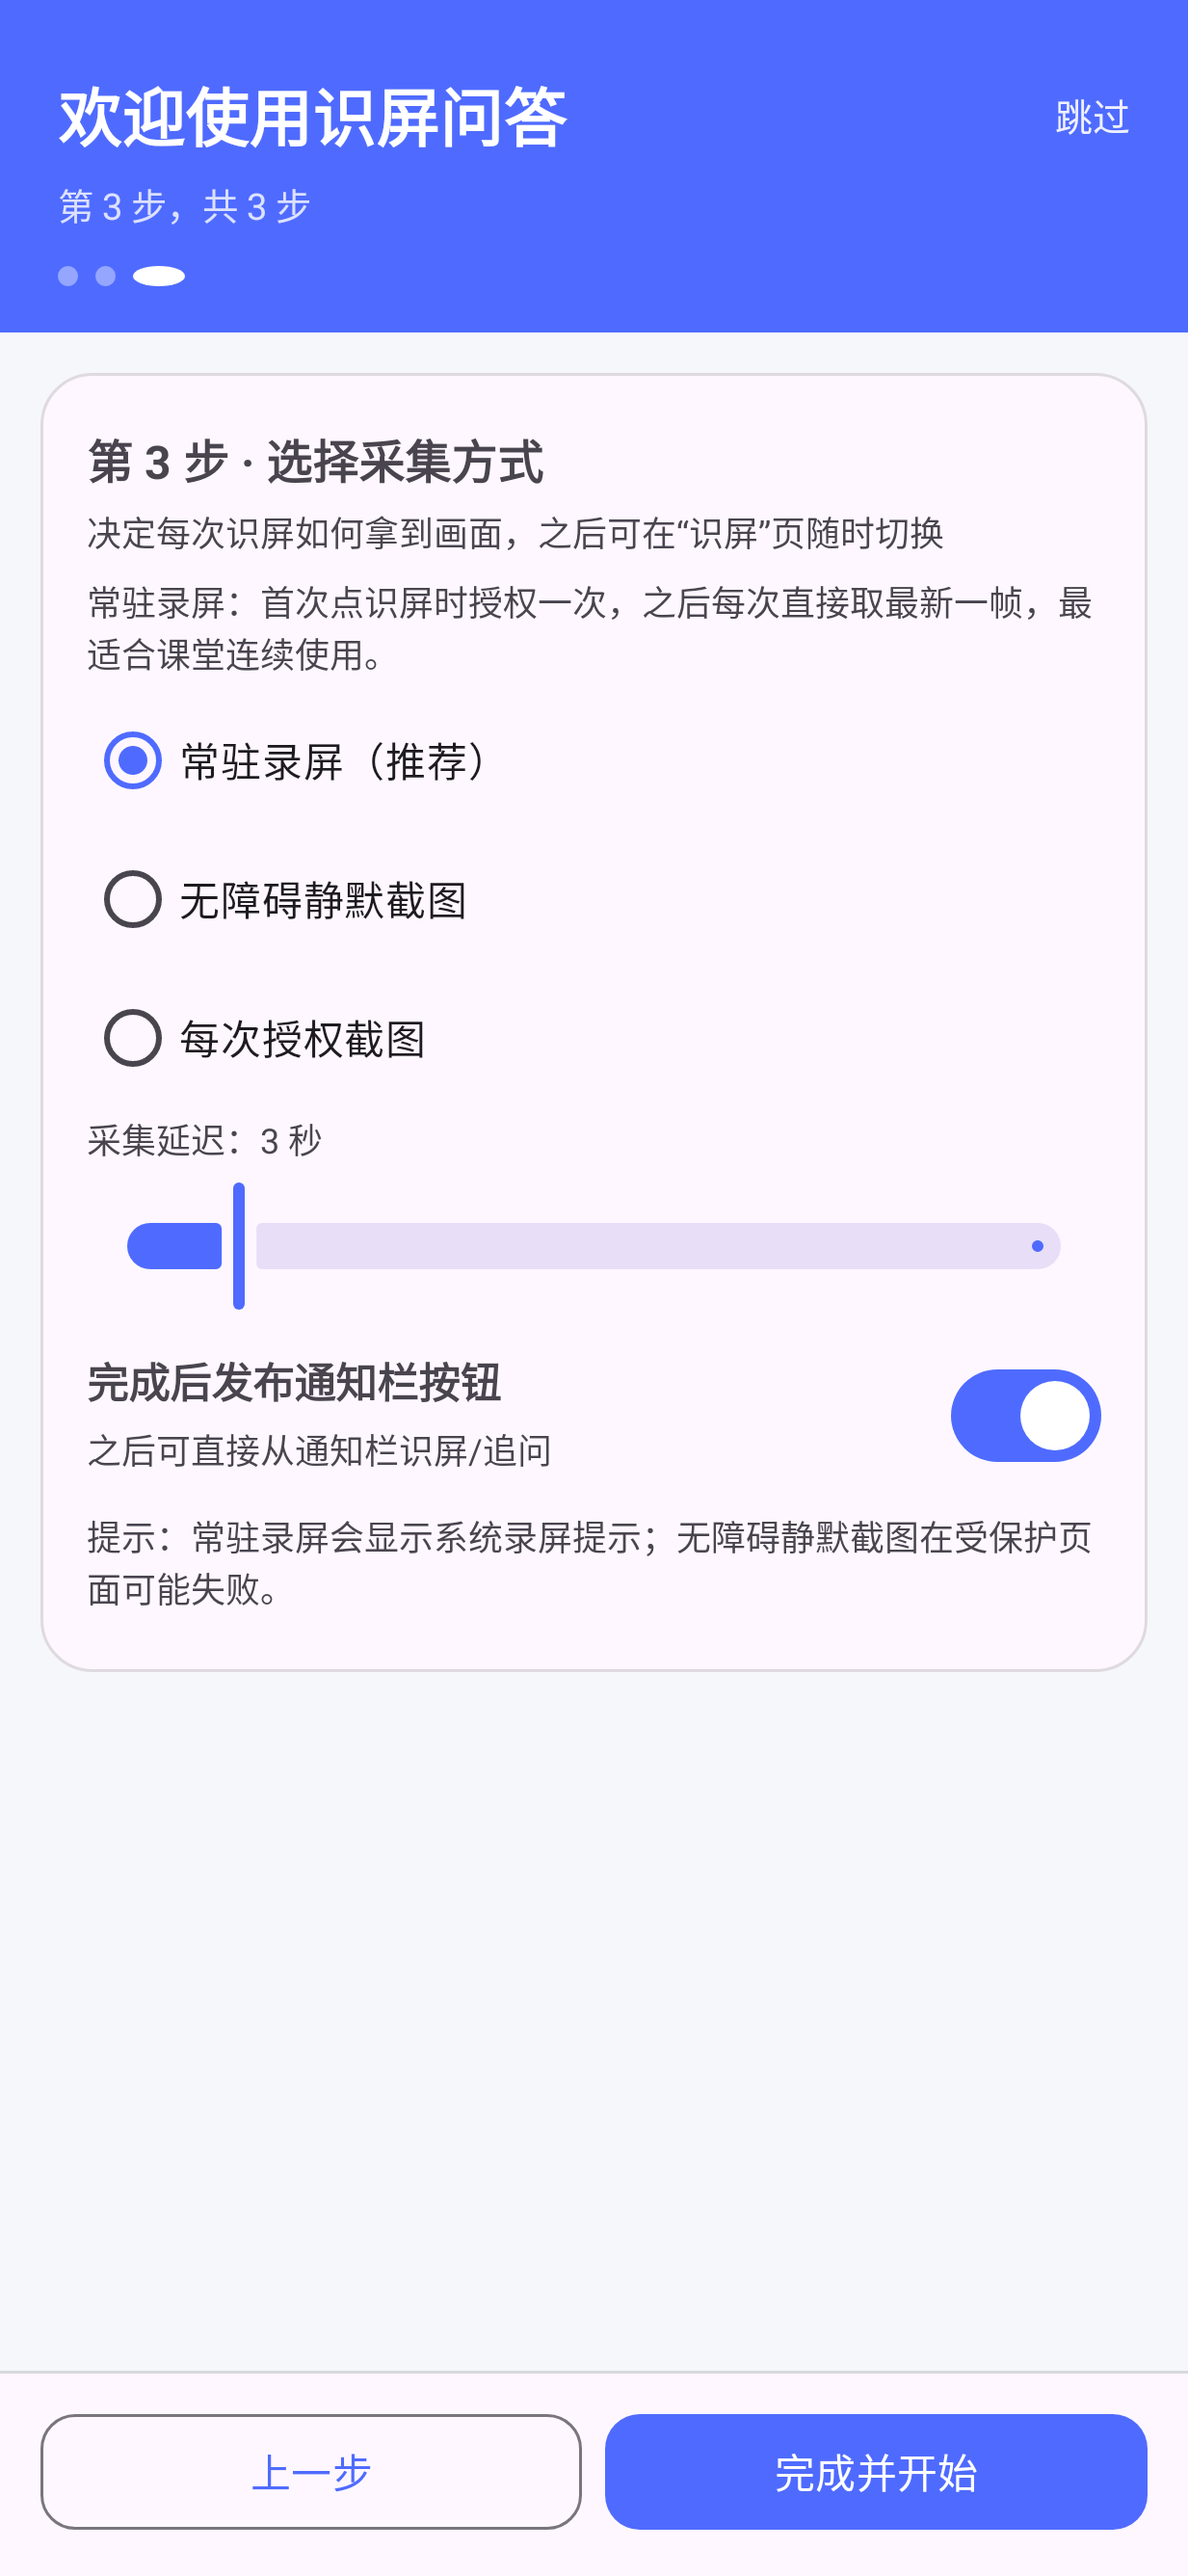
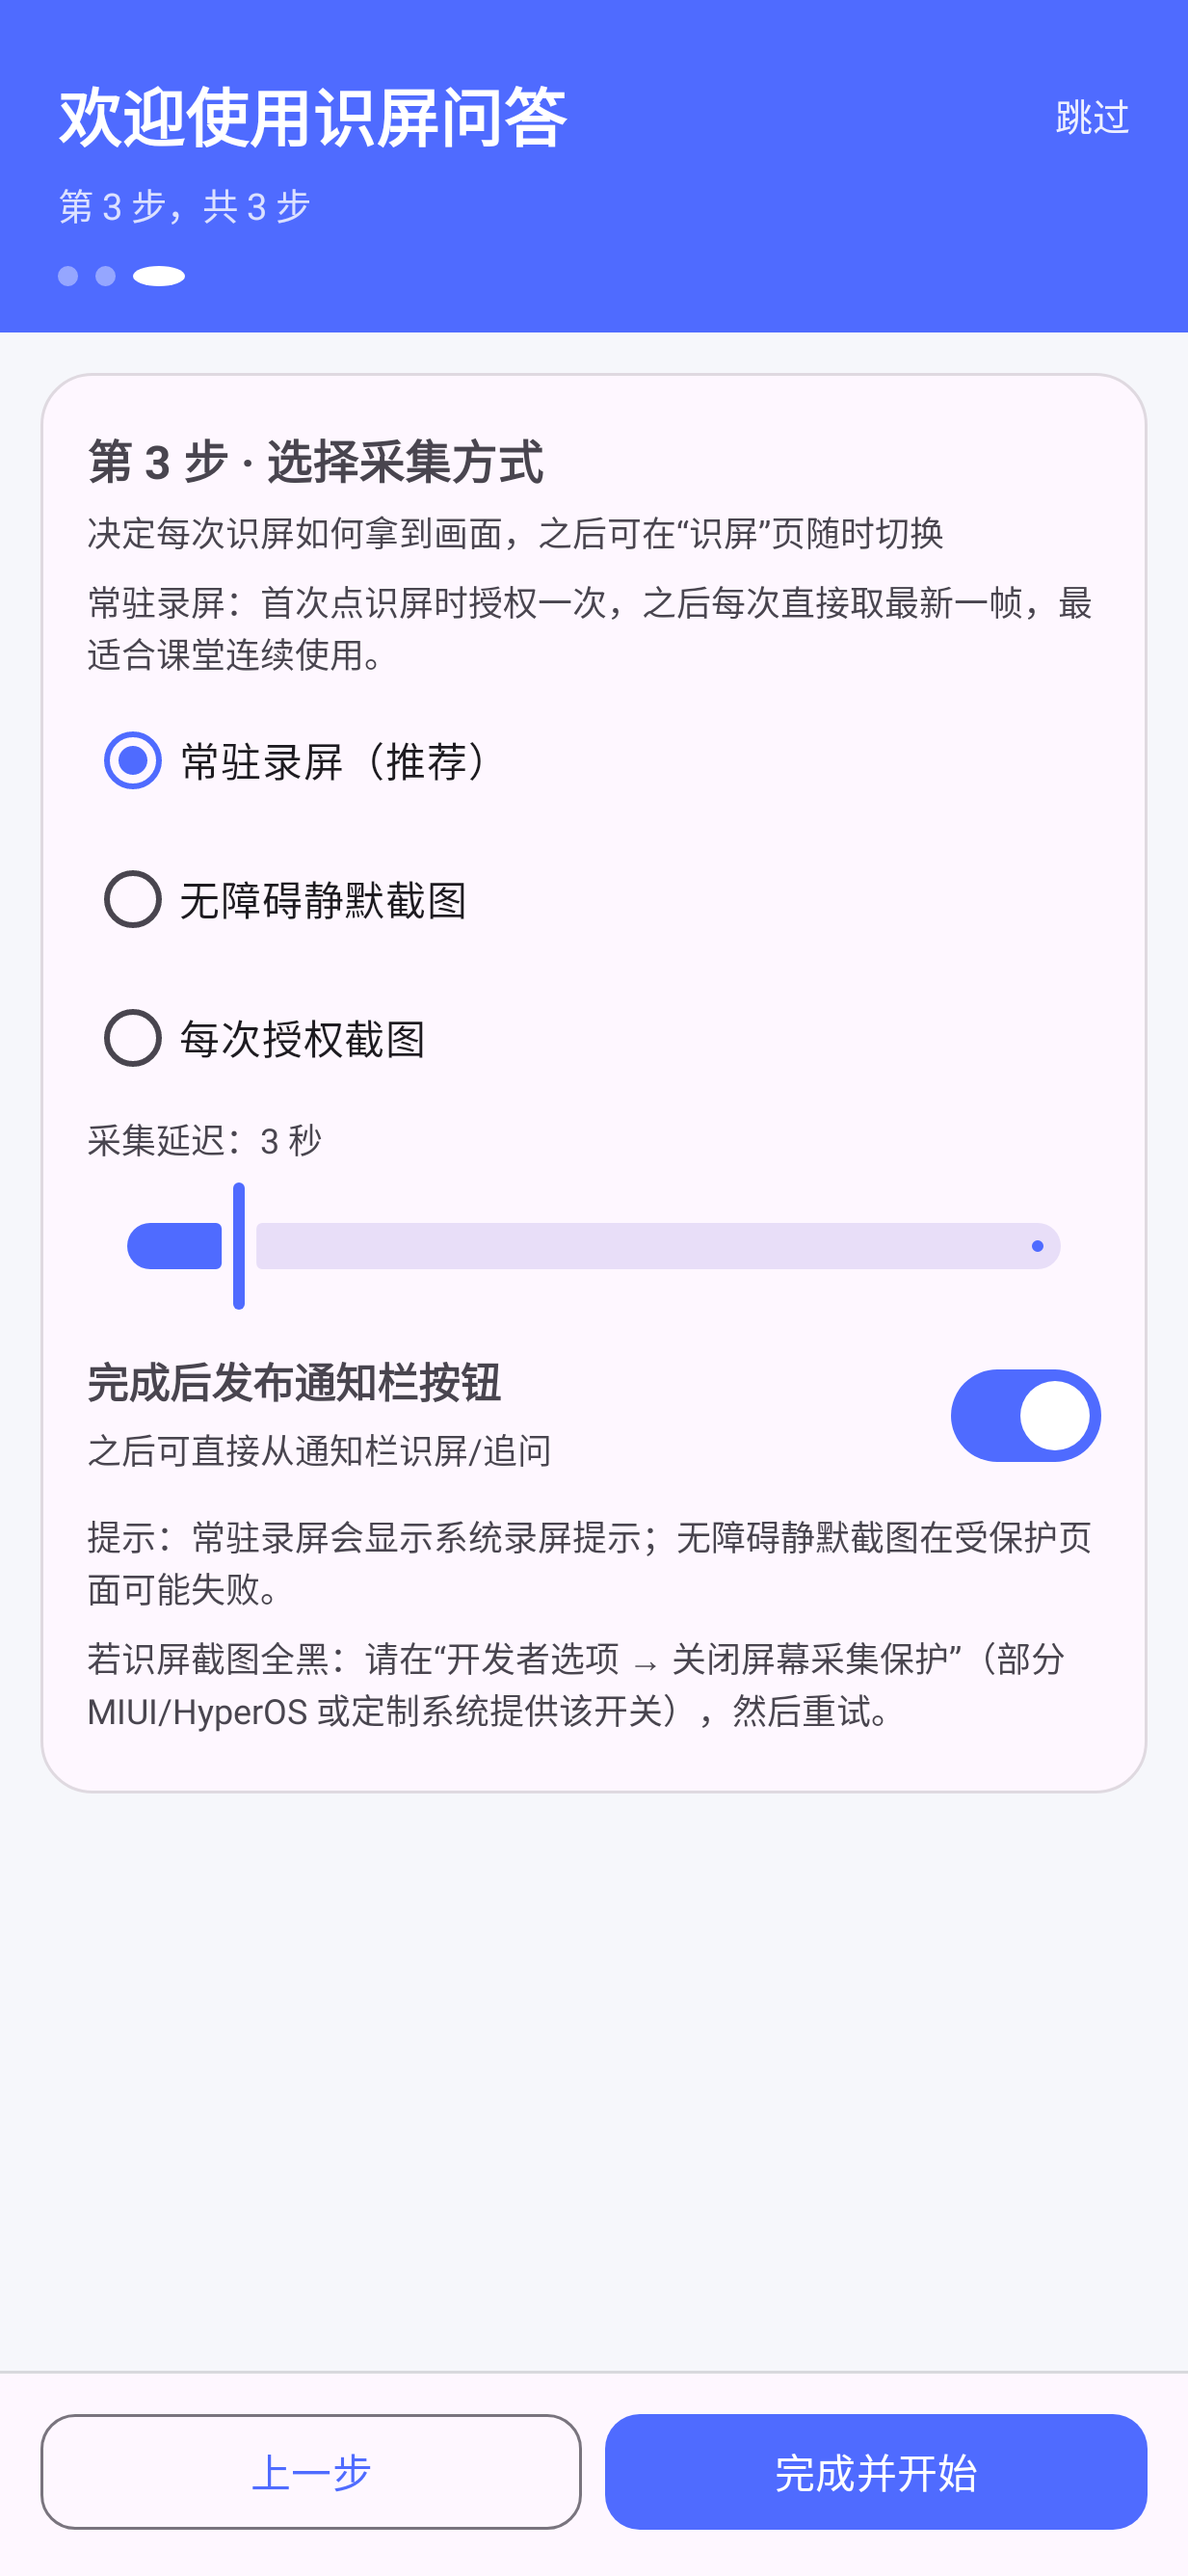
fix: preserve each input value after recreation; remind about screen capture protection (1.0.2)

Changed region(s): [[0.0616, 0.621, 0.5547, 0.6831], [0.5547, 0.621, 0.8013, 0.6831], [0.8321, 0.621, 0.8938, 0.6521]]

diff --git a/app/src/main/java/com/screenask/app/Prefs.kt b/app/src/main/java/com/screenask/app/Prefs.kt
@@ -91,15 +91,39 @@ object Prefs {
 
     fun load(context: Context): AppConfig {
         val prefs = context.getSharedPreferences(FILE, Context.MODE_PRIVATE)
+
+        // Defensive repair for values that may have been written by the old
+        // duplicate-input-id bug (many fields restored as the string "zh").
+        fun saneUrl(value: String?, fallback: String): String {
+            val trimmed = value?.trim().orEmpty()
+            if (trimmed.isBlank() || trimmed == "zh") return fallback
+            return if (trimmed.startsWith("http://") || trimmed.startsWith("https://")) trimmed else fallback
+        }
+
+        fun saneModel(value: String?, fallback: String): String {
+            val trimmed = value?.trim().orEmpty()
+            return if (trimmed.isBlank() || trimmed == "zh") fallback else trimmed
+        }
+
+        fun saneText(value: String?, fallback: String): String {
+            val text = value ?: return fallback
+            return if (text.isBlank() || text == "zh") fallback else text
+        }
+
         fun profile(prefix: String, defaultUrl: String, defaultModel: String): ApiProfile {
+            val backupUrlRaw = prefs.getString(prefix + "_backup_url", "").orEmpty()
+            val backupUrl = if (backupUrlRaw.startsWith("http://") || backupUrlRaw.startsWith("https://")) backupUrlRaw else ""
+            val backupModelRaw = prefs.getString(prefix + "_backup_model", "").orEmpty()
             return ApiProfile(
-                baseUrl = prefs.getString(prefix + "_url", defaultUrl) ?: defaultUrl,
-                apiKey = SecretStore.decrypt(prefs.getString(prefix + "_key", "").orEmpty()),
-                model = prefs.getString(prefix + "_model", defaultModel) ?: defaultModel,
-                backupBaseUrl = prefs.getString(prefix + "_backup_url", "").orEmpty(),
+                baseUrl = saneUrl(prefs.getString(prefix + "_url", defaultUrl), defaultUrl),
+                apiKey = SecretStore.decrypt(prefs.getString(prefix + "_key", "").orEmpty()).let {
+                    if (it == "zh") "" else it
+                },
+                model = saneModel(prefs.getString(prefix + "_model", defaultModel), defaultModel),
+                backupBaseUrl = backupUrl,
                 backupApiKey = SecretStore.decrypt(prefs.getString(prefix + "_backup_key", "").orEmpty()),
-                backupModel = prefs.getString(prefix + "_backup_model", "").orEmpty(),
-                extraHeaders = prefs.getString(prefix + "_headers", "").orEmpty(),
+                backupModel = if (backupModelRaw == "zh") "" else backupModelRaw,
+                extraHeaders = saneText(prefs.getString(prefix + "_headers", ""), ""),
                 timeoutSeconds = prefs.getInt(prefix + "_timeout", 120).coerceIn(5, 600)
             )
         }
@@ -109,8 +133,8 @@ object Prefs {
             stt = profile("stt", "https://api.openai.com/v1", "whisper-1"),
             multimodal = profile("multi", "https://api.openai.com/v1", "gpt-4o-mini"),
             useMultimodal = prefs.getBoolean("use_multi", true),
-            prompt = prefs.getString("prompt", defaults.prompt) ?: defaults.prompt,
-            userPrompt = prefs.getString("user_prompt", defaults.userPrompt) ?: defaults.userPrompt,
+            prompt = saneText(prefs.getString("prompt", defaults.prompt), defaults.prompt),
+            userPrompt = saneText(prefs.getString("user_prompt", defaults.userPrompt), defaults.userPrompt),
             delaySeconds = prefs.getInt("delay", 3).coerceIn(0, 30),
             temperature = prefs.getFloat("temperature", 0.3f).coerceIn(0f, 2f),
             topP = prefs.getFloat("top_p", 1f).coerceIn(0f, 1f),
@@ -136,7 +160,9 @@ object Prefs {
             keepHistory = prefs.getBoolean("keep_history", true),
             historyLimit = prefs.getInt("history_limit", 200).coerceIn(10, 1000),
             autoStartOnBoot = prefs.getBoolean("boot_launcher", true),
-            extraBodyJson = prefs.getString("extra_body_json", "").orEmpty(),
+            extraBodyJson = prefs.getString("extra_body_json", "").orEmpty().let {
+                if (it.trim() == "zh") "" else it
+            },
             autoCopyAnswer = prefs.getBoolean("auto_copy", false),
             voiceReadAnswer = prefs.getBoolean("voice_read", false)
         )

diff --git a/app/src/test/java/com/screenask/app/AppSmokeTest.kt b/app/src/test/java/com/screenask/app/AppSmokeTest.kt
@@ -1,6 +1,10 @@
 package com.screenask.app
 
 import android.content.Context
+import android.os.Bundle
+import android.view.View
+import android.view.ViewGroup
+import android.widget.EditText
 import androidx.test.core.app.ApplicationProvider
 import org.json.JSONObject
 import org.junit.Assert.assertEquals
@@ -130,6 +134,69 @@ class AppSmokeTest {
         val manager = context.getSystemService(android.app.NotificationManager::class.java)
         assertTrue(manager.getNotificationChannel(NotificationHelper.CHANNEL_ANSWER) != null)
         NotificationHelper.cancelSession(context)
+    }
+
+    private fun collectInputTexts(root: View): List<String> {
+        val values = ArrayList<String>()
+        fun walk(view: View) {
+            if (view is EditText) values.add(view.text?.toString().orEmpty())
+            if (view is ViewGroup) {
+                for (i in 0 until view.childCount) walk(view.getChildAt(i))
+            }
+        }
+        walk(root)
+        return values
+    }
+
+    @Test
+    fun recreationDoesNotCopyOneInputIntoAllFields() {
+        val context = ApplicationProvider.getApplicationContext<Context>()
+        Prefs.setOnboarded(context, true)
+        Prefs.save(
+            context,
+            AppConfig(
+                delaySeconds = 7,
+                temperature = 0.55f,
+                maxTokens = 1234,
+                historyLimit = 321,
+                sttLanguage = "zh"
+            )
+        )
+        val controller = Robolectric.buildActivity(MainActivity::class.java).setup()
+        val before = collectInputTexts(controller.get().window.decorView)
+        val state = Bundle()
+        controller.saveInstanceState(state)
+        controller.pause().stop().destroy()
+
+        val controller2 = Robolectric.buildActivity(MainActivity::class.java)
+            .create(state).start().resume().visible()
+        val after = collectInputTexts(controller2.get().window.decorView)
+        assertEquals(before.size, after.size)
+        assertEquals(before, after)
+        // Only the STT language field is allowed to contain "zh".
+        assertEquals(1, after.count { it == "zh" })
+        controller2.pause().stop().destroy()
+    }
+
+    @Test
+    fun corruptedSettingsAreRepairedOnLoad() {
+        val context = ApplicationProvider.getApplicationContext<Context>()
+        val prefs = context.getSharedPreferences("screenask_settings", Context.MODE_PRIVATE)
+        prefs.edit()
+            .putString("multi_url", "zh")
+            .putString("multi_model", "zh")
+            .putString("vision_url", "zh")
+            .putString("vision_model", "zh")
+            .putString("prompt", "zh")
+            .putString("user_prompt", "zh")
+            .putString("stt_language", "zh")
+            .apply()
+        val config = Prefs.load(context)
+        assertTrue(config.multimodal.baseUrl.startsWith("https://"))
+        assertEquals("gpt-4o-mini", config.multimodal.model)
+        assertTrue(config.vision.baseUrl.startsWith("https://"))
+        assertEquals(AppConfig.DEFAULT_PROMPT, config.prompt)
+        assertEquals("zh", config.sttLanguage)
     }
 
     @Test

diff --git a/app/src/main/java/com/screenask/app/MainActivity.kt b/app/src/main/java/com/screenask/app/MainActivity.kt
@@ -638,6 +638,14 @@ class MainActivity : AppCompatActivity() {
             toast("已清除本地数据")
         }
 
+        val blackScreen = card(panel, "截图黑屏？", "部分系统默认开启屏幕采集保护，会导致截图全黑或空白")
+        blackScreen.addView(
+            caption("请进入“开发者选项 → 关闭屏幕采集保护”（不同系统可能显示为“禁止屏幕截图保护 / Disable screen capture protection”），然后重新识屏。本应用的“保护本应用界面”只影响本应用自身，不需要关闭。")
+        )
+        button(blackScreen, "打开开发者选项", outlined = true) {
+            Permissions.openDeveloperOptions(this)
+        }
+
         val accessibility = card(panel, "无障碍（推荐）", "用于读取屏幕文字，并在 Android 11+ 免授权截图")
         accessibilityStatusText = caption("状态：读取中…")
         accessibility.addView(accessibilityStatusText)

diff --git a/app/src/main/java/com/screenask/app/UiKit.kt b/app/src/main/java/com/screenask/app/UiKit.kt
@@ -128,6 +128,14 @@ class UiKit(private val activity: AppCompatActivity) {
             ).apply { topMargin = dp(10) }
         }
         val edit = layout.findViewById<TextInputEditText>(R.id.input_edit)
+        // All instances share the XML id "input_edit". Android saves/restores view
+        // state by id, so on activity recreation one saved text (e.g. the STT
+        // language "zh") would be written into every input. Give each instance a
+        // unique id and never persist its own state; values always come from Prefs.
+        layout.id = View.generateViewId()
+        edit.id = View.generateViewId()
+        layout.isSaveEnabled = false
+        edit.isSaveEnabled = false
         edit.apply {
             setText(value)
             textSize = 14.5f

diff --git a/app/src/main/java/com/screenask/app/Permissions.kt b/app/src/main/java/com/screenask/app/Permissions.kt
@@ -61,6 +61,16 @@ object Permissions {
         }
     }
 
+    /** Some ROMs expose "Disable screen capture protection" in Developer options. */
+    fun openDeveloperOptions(context: Context) {
+        runCatching {
+            context.startActivity(
+                Intent(Settings.ACTION_APPLICATION_DEVELOPMENT_SETTINGS)
+                    .addFlags(Intent.FLAG_ACTIVITY_NEW_TASK)
+            )
+        }.onFailure { openAppDetails(context) }
+    }
+
     fun openAppDetails(context: Context) {
         runCatching {
             context.startActivity(

diff --git a/app/src/main/java/com/screenask/app/OnboardingActivity.kt b/app/src/main/java/com/screenask/app/OnboardingActivity.kt
@@ -348,6 +348,9 @@ class OnboardingActivity : AppCompatActivity() {
         card.addView(
             ui.caption("提示：常驻录屏会显示系统录屏提示；无障碍静默截图在受保护页面可能失败。")
         )
+        card.addView(
+            ui.caption("若识屏截图全黑：请在“开发者选项 → 关闭屏幕采集保护”（部分 MIUI/HyperOS 或定制系统提供该开关），然后重试。")
+        )
         return panel
     }
 

diff --git a/app/src/test/java/com/screenask/app/PreviewRenderTest.kt b/app/src/test/java/com/screenask/app/PreviewRenderTest.kt
@@ -71,6 +71,8 @@ class PreviewRenderTest {
         render(main.window.decorView, "main-api.png")
         tabs.getTabAt(2)?.select()
         render(main.window.decorView, "main-params.png")
+        tabs.getTabAt(4)?.select()
+        render(main.window.decorView, "main-privacy.png")
 
         val onboarding = Robolectric.buildActivity(OnboardingActivity::class.java).setup().get()
         render(onboarding.window.decorView, "onboarding-step1.png")

diff --git a/README.md b/README.md
@@ -1,4 +1,4 @@
-# 识屏问答（ScreenAsk）v1.0.1
+# 识屏问答（ScreenAsk）v1.0.2
 
 [![Android CI](https://github.com/Asususu-1226/ScreenAsk/actions/workflows/android.yml/badge.svg)](https://github.com/Asususu-1226/ScreenAsk/actions/workflows/android.yml)
 [![License: GPL v3](https://img.shields.io/badge/License-GPLv3-blue.svg)](https://www.gnu.org/licenses/gpl-3.0)
@@ -136,11 +136,12 @@ cp keystore.properties.example keystore.properties
 ## 已知限制
 
 1. 受 `FLAG_SECURE` 保护的窗口（部分银行、考试、视频应用）截图会是黑屏或空白，系统限制，无法绕过。
-2. 系统内部音频采集需要源应用允许 Playback Capture（`allowAudioPlaybackCapture`）；不允许时录制为静音，请改用麦克风模式。
-3. Android 通知的展开长度受系统 UI 限制（通常数千字符），超长答案请打开历史页查看。
-4. MediaProjection 在锁屏/切换用户/系统回收时会被终止，需要重新授权（常驻模式也遵循该限制）。
-5. 无障碍静默截图在 Android 11+ 可用，Android 10 及以下只能使用 MediaProjection。
-6. Shizuku 为第三方应用，需要单独安装；不同 ROM 上 `appops` 命令支持情况可能不同。
+2. 部分系统（MIUI/HyperOS 及部分定制 ROM）默认开启“屏幕采集保护”，会导致截图全黑。请到 **开发者选项 → 关闭屏幕采集保护**（名称可能为“禁止屏幕截图保护 / Disable screen capture protection”）后重试。本应用的“保护本应用界面”只影响自身，无需关闭。
+3. 系统内部音频采集需要源应用允许 Playback Capture（`allowAudioPlaybackCapture`）；不允许时录制为静音，请改用麦克风模式。
+4. Android 通知的展开长度受系统 UI 限制（通常数千字符），超长答案请打开历史页查看。
+5. MediaProjection 在锁屏/切换用户/系统回收时会被终止，需要重新授权（常驻模式也遵循该限制）。
+6. 无障碍静默截图在 Android 11+ 可用，Android 10 及以下只能使用 MediaProjection。
+7. Shizuku 为第三方应用，需要单独安装；不同 ROM 上 `appops` 命令支持情况可能不同。
 
 ## 项目结构
 

diff --git a/CHANGELOG.md b/CHANGELOG.md
@@ -1,5 +1,14 @@
 # Changelog
 
+## 1.0.2 — 2026-11-06
+
+### 修复
+- 修复 Activity 重建（如完成首次引导后的 recreate）时，所有输入框被恢复成同一个值（显示为 “zh”）的问题。原因是所有输入框共用 XML 中的同一个 ID，Android 按 ID 保存/恢复视图状态；现在每个输入框使用唯一 ID 并关闭自身的状态保存，值始终来自设置。
+- 新增回归测试：保存实例状态并重建 Activity 后，所有输入框保持原值。
+
+### 新增
+- 在设置页和首次引导中加入“截图黑屏”排查提示：部分系统需在开发者选项关闭“屏幕采集保护”。
+
 ## 1.0.1 — 2026-11-05
 
 ### 输入框修复
